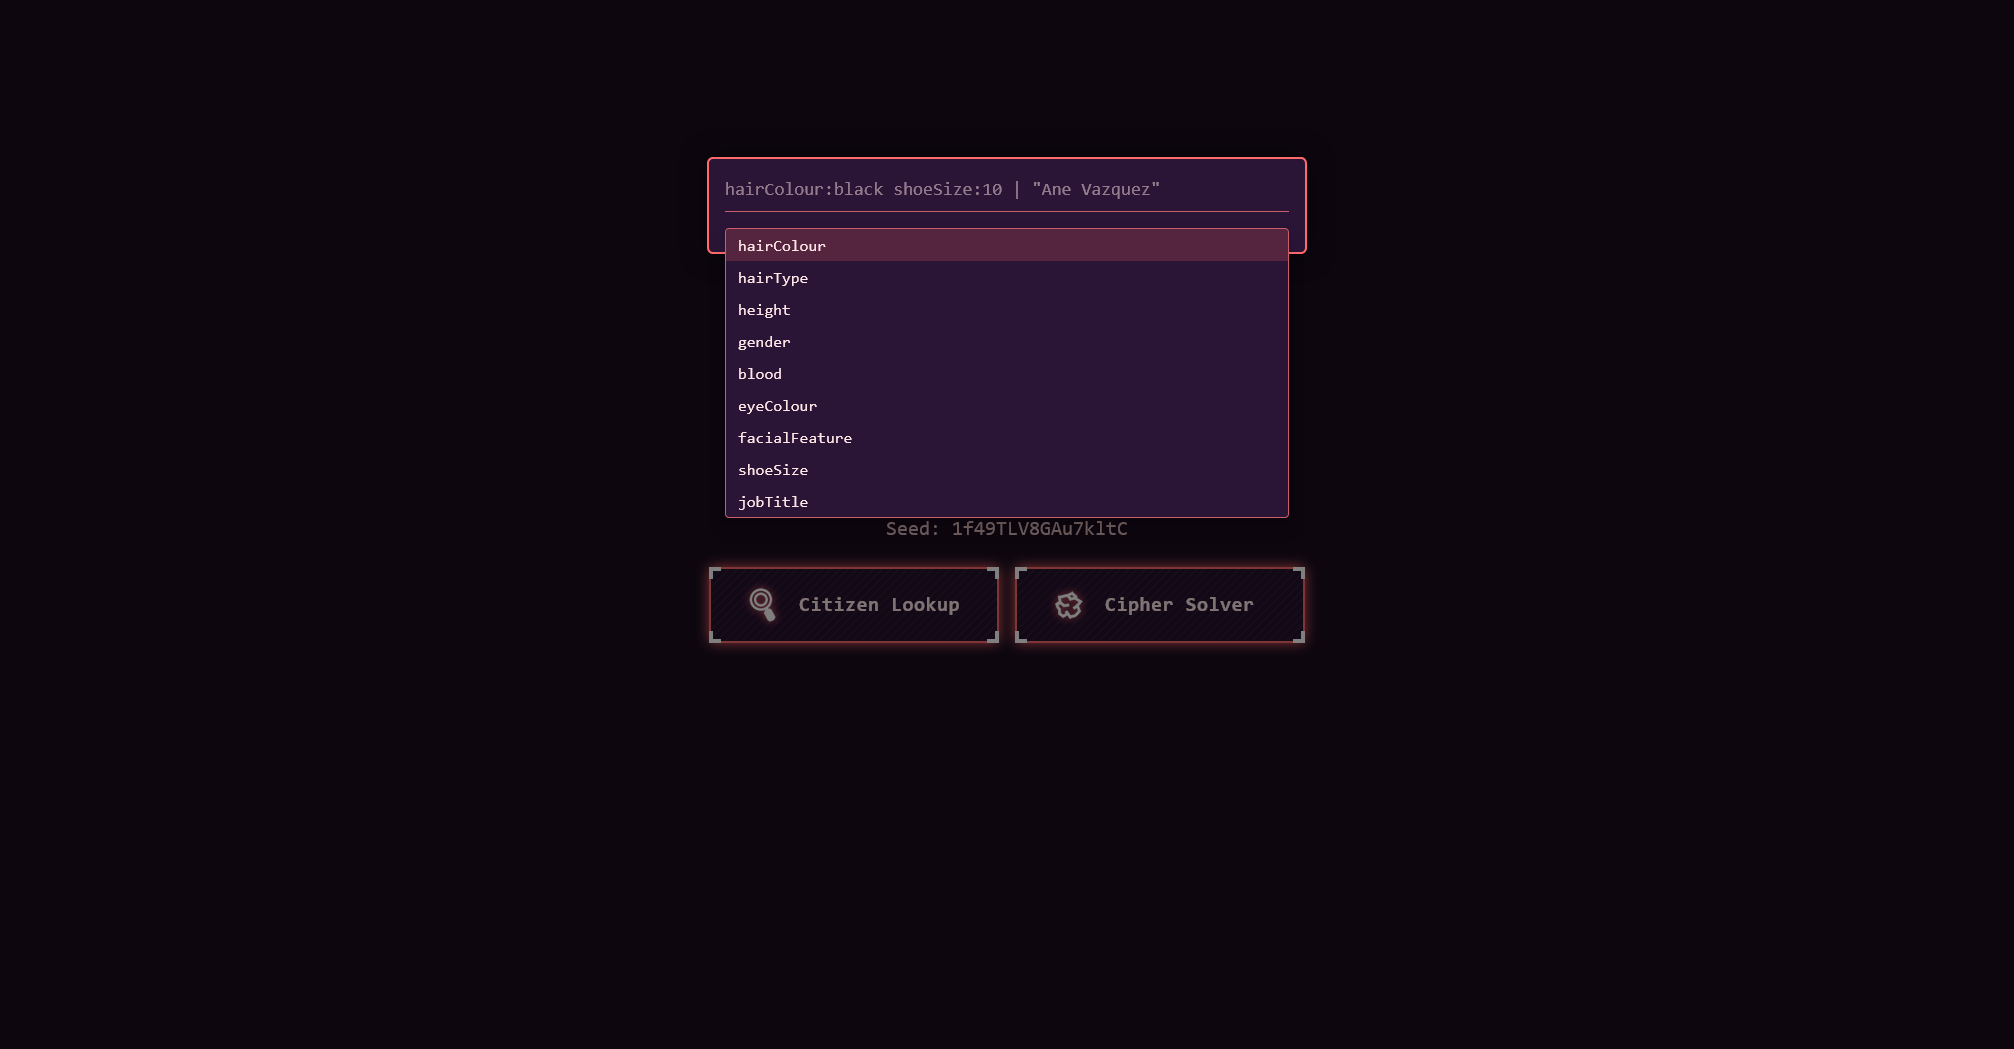
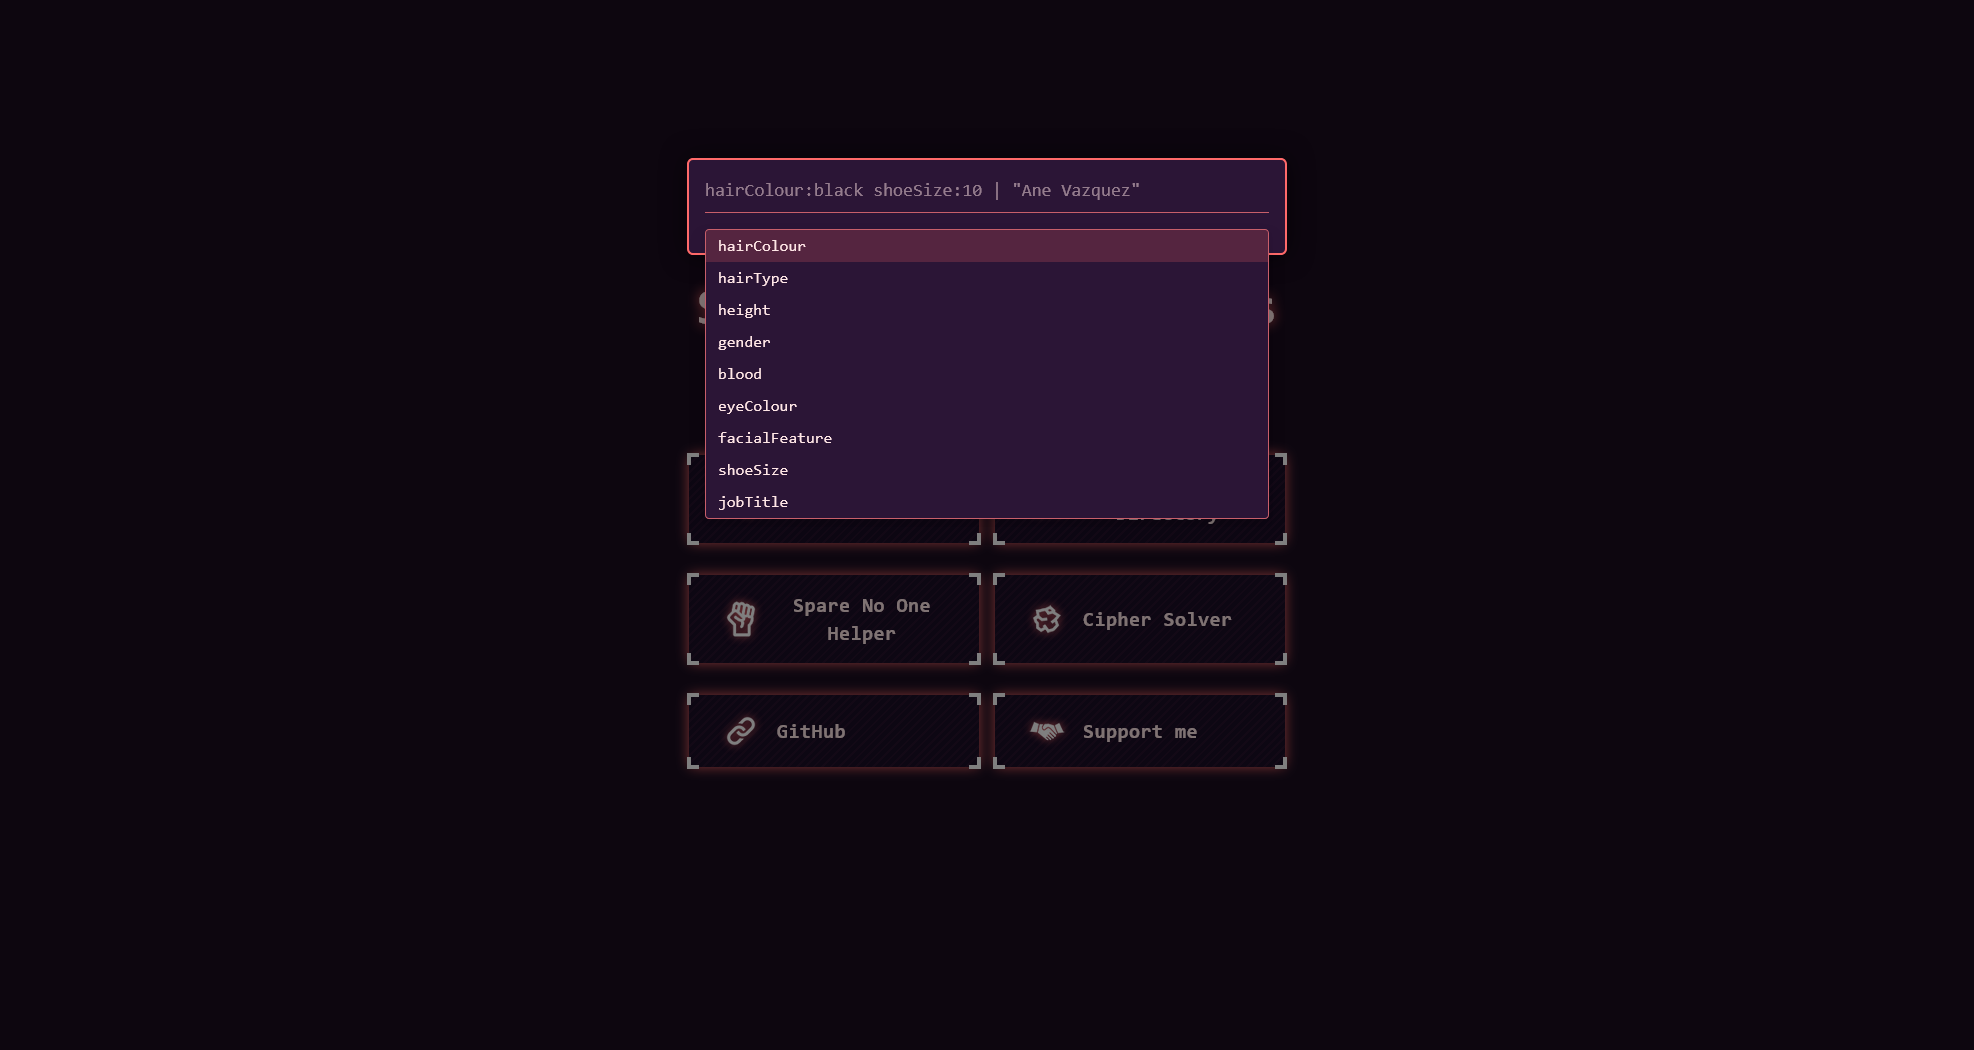
Update previews

Changed region(s): [[0.3399, 0.1525, 0.6798, 0.7321], [0.5253, 0.1525, 0.5871, 0.2135]]

diff --git a/README.md b/README.md
@@ -9,14 +9,29 @@ Accepts the game's `.cit`/`.citb` files.
 - Searching the city by features, like searching all citizens that have black hair, or the retail owner job.
 - Providing help for the "Spare No One" achievement (KO everybody in the city at least once.)
 
-## Previews:
-| Preview | Image |
-|:--|:--:|
-| Main page | ![](/wiki/img/preview1.png) |
-| Message dialog | ![](/wiki/img/preview2.png) |
-| Page after upload | ![](/wiki/img/preview3.png) |
-| Citizen Lookup | ![](/wiki/img/preview4.png) |
-| Citizen Profile | ![](/wiki/img/preview5.png) |
-| Multiple citizen profiles open at once | ![](/wiki/img/preview6.png) |
-| Cipher solver | ![](/wiki/img/preview7.png) |
-| Cipher solved | ![](/wiki/img/preview8.png) |
+## Previews
+
+<div align="center">
+
+<table>
+<tr>
+<td><b>Main page</b><br><img src="/wiki/img/preview1.png" width="300"></td>
+<td><b>Message dialog</b><br><img src="/wiki/img/preview2.png" width="300"></td>
+<td><b>Page after upload</b><br><img src="/wiki/img/preview3.png" width="300"></td>
+</tr>
+<tr>
+<td><b>Citizen Lookup</b><br><img src="/wiki/img/preview4.png" width="300"></td>
+<td><b>Citizen Profile</b><br><img src="/wiki/img/preview5.png" width="300"></td>
+<td><b>Multiple profiles open</b><br><img src="/wiki/img/preview6.png" width="300"></td>
+</tr>
+<tr>
+<td><b>Cipher solver</b><br><img src="/wiki/img/preview7.png" width="300"></td>
+<td><b>Cipher solved</b><br><img src="/wiki/img/preview8.png" width="300"></td>
+<td><b>Spare No One Helper</b><br><img src="/wiki/img/preview9.png" width="300"></td>
+</tr>
+<tr>
+<td><b>Building Directory</b><br><img src="/wiki/img/preview10.png" width="300"></td>
+</tr>
+</table>
+
+</div>
